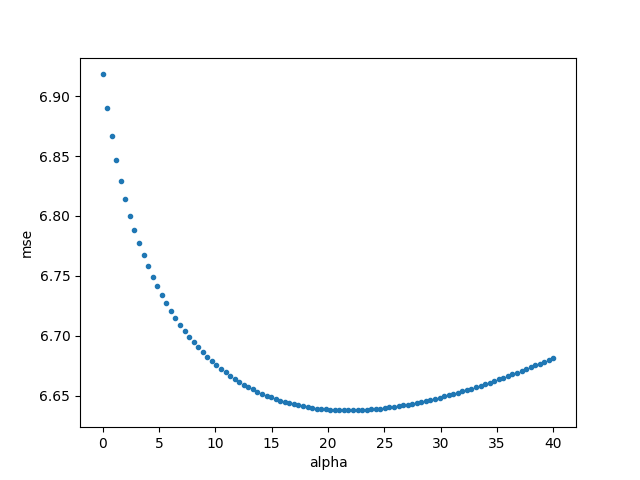
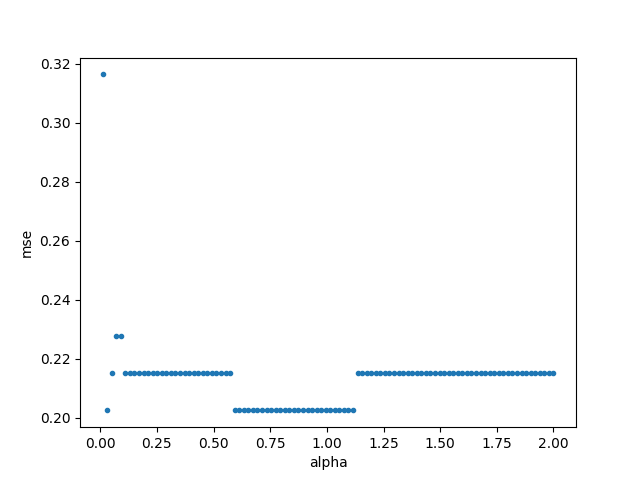
classification

diff --git a/projekt_2/classification.py b/projekt_2/classification.py
@@ -1,8 +1,9 @@
-from data_loader import st_X_reg, y_reg
+from data_loader import st_X_class, y_class
 import numpy as np
 import sklearn.linear_model as lm
 from sklearn import model_selection
 from sklearn.metrics import mean_squared_error
+from scipy.stats import mode
 import torch
 import torch.nn as nn
 import torch.optim as optim
@@ -10,11 +11,10 @@ from torch.utils.data import DataLoader, TensorDataset
 
 def train_test_lr(model, train_data, test_data):
     # train model
-    model.fit(train_data[0], train_data[1])
+    model.fit(train_data[0], train_data[1].reshape(-1))
 
-    # Predict
     predictions = model.predict(test_data[0])
-    return mean_squared_error(predictions, test_data[1])
+    return np.sum(predictions!=test_data[1].reshape(-1))/len(test_data[1])
 
 def train_ann(hidden_nodes, data):
     # ANN parameters
@@ -28,7 +28,7 @@ def train_ann(hidden_nodes, data):
             torch.nn.Linear(M, hidden_nodes),  # M features to H hiden units
             torch.nn.ReLU(),  # torch.nn.ReLU(),
             torch.nn.Linear(hidden_nodes, 1),  # H hidden units to 1 output neuron
-            torch.nn.ReLU(),  # final tranfer function
+            torch.nn.Sigmoid(),  # final tranfer function
             )
             
     
@@ -67,14 +67,14 @@ def test_ann(model, data):
         predictions = model(X_test_inner_tensor)
 
     # Convert to NumPy array if needed (for further processing or evaluation)
-    predictions_np = predictions.numpy()
+    predictions_np = np.rint(np.array(predictions)).reshape(-1)
     # return np.sum(np.square(predictions_np - y_test_inner_tensor))
-    return mean_squared_error(predictions_np, data[1])
+    return np.sum(predictions_np != data[1].reshape(-1))
 
 def get_baseline(train_data, test_data):
-    avg = np.average(train_data)
+    avg = mode(train_data)
     predictions = np.zeros(len(test_data)) + avg
-    return mean_squared_error(predictions, test_data)
+    return np.sum(predictions!=test_data[1].reshape(-1))/len(test_data[1])
 
 # initizialize the table
 table ="Outer fold,h,mse,alpha,mse,baseline\n"
@@ -85,22 +85,22 @@ outer_k = 10  # Outer K-fold
 inner_k = 10  # Inner K-fold for hyperparameter tuning
 
 # Alpha values
-alphas = np.linspace(0, 40, A) # aplha values used for regularization of linear model
+alphas = np.linspace(0.001, 3, A) # aplha values used for regularization of linear model
 
 # Store scores for each outer fold
 weighted_mse_estimate_ann = np.zeros(A)
 weighted_mse_estimate_lr = np.zeros(A)
 weighted_estimate_baseline = np.zeros(A)
 
-outer_mse_lr = np.zeros(outer_k)
-outer_mse_ann = np.zeros(outer_k)
+outer_error_rate_lr = np.zeros(outer_k)
+outer_error_rate_ann = np.zeros(outer_k)
 outer_mse_baseline = np.zeros(outer_k)
 
 # Inner Cross Validation for ANN
-inner_mse_ann = np.zeros((A, inner_k))
+inner_error_rate_ann = np.zeros((A, inner_k))
 
 # Inner Cross Validation for linear regression
-inner_mse_lr = np.zeros((A, inner_k))
+inner_error_rate_lr = np.zeros((A, inner_k))
 
 # length of test sets
 length_of_inner_test_set = np.zeros(inner_k)
@@ -112,11 +112,11 @@ length_of_outer_test_set = np.zeros(outer_k)
 outer_cv = model_selection.KFold(n_splits=outer_k, shuffle=True)
 
 # Outer Cross Validation
-for outer_fold, (train_index, test_index) in enumerate(outer_cv.split(st_X_reg, y_reg)):
+for outer_fold, (train_index, test_index) in enumerate(outer_cv.split(st_X_class, y_class)):
     print(f"running outer fold {outer_fold+1}/{outer_k}...")
     # Split data
-    X_train_outer, X_test_outer = st_X_reg[train_index], st_X_reg[test_index]
-    y_train_outer, y_test_outer = y_reg[train_index], y_reg[test_index]
+    X_train_outer, X_test_outer = st_X_class[train_index], st_X_class[test_index]
+    y_train_outer, y_test_outer = y_class[train_index], y_class[test_index]
     
     length_of_outer_test_set[outer_fold] = len(y_test_outer)
     
@@ -129,34 +129,34 @@ for outer_fold, (train_index, test_index) in enumerate(outer_cv.split(st_X_reg, 
         length_of_inner_test_set[j] = len(y_test_inner)
         for i, alpha in enumerate(alphas):
             
-            model_lr = lm.Ridge(alpha=alpha)
+            model_lr = lm.LogisticRegression(penalty='l2', C=alpha, solver='lbfgs', max_iter=10000)
             
             # train ANN
             model_ann = train_ann(hidden_nodes=(i*2)+1, data=(X_train_inner, y_train_inner))
             
             # test ANN
-            inner_mse_ann[i, j] = test_ann(model=model_ann, data=(X_test_inner, y_test_inner))
+            inner_error_rate_ann[i, j] = test_ann(model=model_ann, data=(X_test_inner, y_test_inner))
         
             # train and test lr
-            inner_mse_lr[i, j] = train_test_lr(model=model_lr, train_data=(X_train_inner, y_train_inner), test_data=(X_test_inner, y_test_inner))
+            inner_error_rate_lr[i, j] = train_test_lr(model=model_lr, train_data=(X_train_inner, y_train_inner), test_data=(X_test_inner, y_test_inner))
         
     for c1 in range(A):
-        weighted_mse_estimate_ann[c1] = np.sum([(length_of_inner_test_set[c2] * inner_mse_ann[c1, c2])/len(y_test_outer) for c2 in range(inner_k)])
-        weighted_mse_estimate_lr[c1] = np.sum([(length_of_inner_test_set[c2] * inner_mse_lr[c1, c2])/len(y_test_outer) for c2 in range(inner_k)])
+        weighted_mse_estimate_ann[c1] = np.sum([(length_of_inner_test_set[c2] * inner_error_rate_ann[c1, c2])/len(y_test_outer) for c2 in range(inner_k)])
+        weighted_mse_estimate_lr[c1] = np.sum([(length_of_inner_test_set[c2] * inner_error_rate_lr[c1, c2])/len(y_test_outer) for c2 in range(inner_k)])
     
     # get the best aplha value and the best number of nodes in the network
     best_nodes_number = (np.argmin(weighted_mse_estimate_ann)*2) + 1
     best_alpha = alphas[np.argmin(weighted_mse_estimate_lr)]
     
     # create models based on best aplha value and the best number of nodes
-    model_lr = lm.Ridge(alpha=best_alpha)
+    model_lr = lm.LogisticRegression(penalty='l2', C=best_alpha, solver='lbfgs', max_iter=10000)
     
     # train and test models
     model_ann = train_ann(hidden_nodes=(i*2)+1, data=(X_train_outer, y_train_outer))
-    outer_mse_ann[outer_fold] = test_ann(model=model_ann, data=(X_test_outer, y_test_outer))
+    outer_error_rate_ann[outer_fold] = test_ann(model=model_ann, data=(X_test_outer, y_test_outer))
     
-    outer_mse_lr[outer_fold] = train_test_lr(model=model_lr, train_data=(X_train_outer, y_train_outer), test_data=(X_test_outer, y_test_outer))
+    outer_error_rate_lr[outer_fold] = train_test_lr(model=model_lr, train_data=(X_train_outer, y_train_outer), test_data=(X_test_outer, y_test_outer))
     baseline = get_baseline(train_data=y_train_outer, test_data=y_test_outer)
-    table += f"{outer_fold+1},{best_nodes_number},{round(outer_mse_ann[outer_fold], 2)},{round(best_alpha, 2)},{round(outer_mse_lr[outer_fold],2)},{round(baseline, 2)}\n"
+    table += f"{outer_fold + 1},{best_nodes_number},{outer_error_rate_ann[outer_fold]},{best_alpha},{outer_error_rate_lr[outer_fold]},{baseline}\n"
 
 print(table)

diff --git a/projekt_2/log_reg_alpha.py b/projekt_2/log_reg_alpha.py
@@ -4,41 +4,41 @@ import sklearn.linear_model as lm
 from sklearn import model_selection
 from sklearn.metrics import mean_squared_error
 A = 100
-K = len(y_reg)
+K = len(y_class)
 error_per_fold = np.zeros(K)
 error_per_aplha = np.zeros(A)
 i = 0
 CV = model_selection.KFold(K, shuffle=True)
-for alpha in np.linspace(0, 40, A):
+for alpha in np.linspace(0.01, 200, A):
     j = 0
-    model = lm.Ridge(alpha=alpha)
-    for train_index, test_index in CV.split(st_X_reg, y_reg):
-        X_train = st_X_reg[train_index]
-        y_train = y_reg[train_index]
-        X_test = st_X_reg[test_index]
-        y_test = y_reg[test_index]
+    model = lm.LogisticRegression(penalty='l2', C=alpha, solver='lbfgs', max_iter=1000000)
+    for train_index, test_index in CV.split(st_X_class, y_class):
+        X_train = st_X_class[train_index]
+        y_train = y_class[train_index].reshape(-1)
+        X_test = st_X_class[test_index]
+        y_test = y_class[test_index].reshape(-1)
         # Fit ordinary least squares regression model
         model.fit(X_train, y_train)
 
         # Predict y
-        y_est = model.predict(X_test)
-        error_per_fold[j] = mean_squared_error(y_est, y_test)
+        predictions = model.predict(X_test)
+        error_per_fold[j] = np.sum(predictions!=y_test.reshape(-1))
         j += 1
     error_per_aplha[i] = np.average(error_per_fold)
     i += 1
 
 # Display scatter plot
 plt.figure()
-plt.plot(np.linspace(0, 40, A), error_per_aplha, ".")
+plt.plot(np.linspace(0.01, 2, A), error_per_aplha, ".")
 plt.xlabel(f"alpha")
 plt.ylabel(f"mse")
 plt.savefig("plots/error_per_alpha.png")
 plt.show()
 
 index_of_lowest_error = np.where(error_per_aplha == min(error_per_aplha))[0]
-best_alpha = np.linspace(0, 40, A)[index_of_lowest_error]
+best_alpha = np.linspace(0.01, 2, A)[index_of_lowest_error]
 print(f"best alpha value is: {best_alpha}\nthe error at that alpha value is: {min(error_per_aplha)}")
 model = lm.Ridge(alpha=best_alpha)
-model.fit(st_X, y)
+model.fit(st_X_class, y_class)
 coefficients = model.coef_
 print(coefficients, X.columns)

diff --git a/projekt_2/data_loader.py b/projekt_2/data_loader.py
@@ -11,12 +11,16 @@ file_path = os.path.join("kindey_stone_urine_analysis.csv")
 data = pd.read_csv(file_path)
 predicted_vaiable = "calc"
 X = data.drop([predicted_vaiable], axis=1)
-y = data[predicted_vaiable]
+y_reg = data[predicted_vaiable]
 
-y = np.array(y).reshape(-1, 1)
-# It's important to standardize your data before applying PCA
-# scaler = StandardScaler()
-# standardized_data = scaler.fit_transform(data)
+y_reg = np.array(y_reg).reshape(-1, 1)
 scalar = StandardScaler()
-st_X = scalar.fit_transform(X)
-st_y = scalar.fit_transform(y)
+st_X_reg = scalar.fit_transform(X)
+
+data = pd.read_csv(file_path)
+X = data.drop(["target"], axis=1)
+y_class = data["target"]
+st_X_class = scalar.fit_transform(X)
+y_class = np.array(y_class).reshape(-1, 1)
+
+
